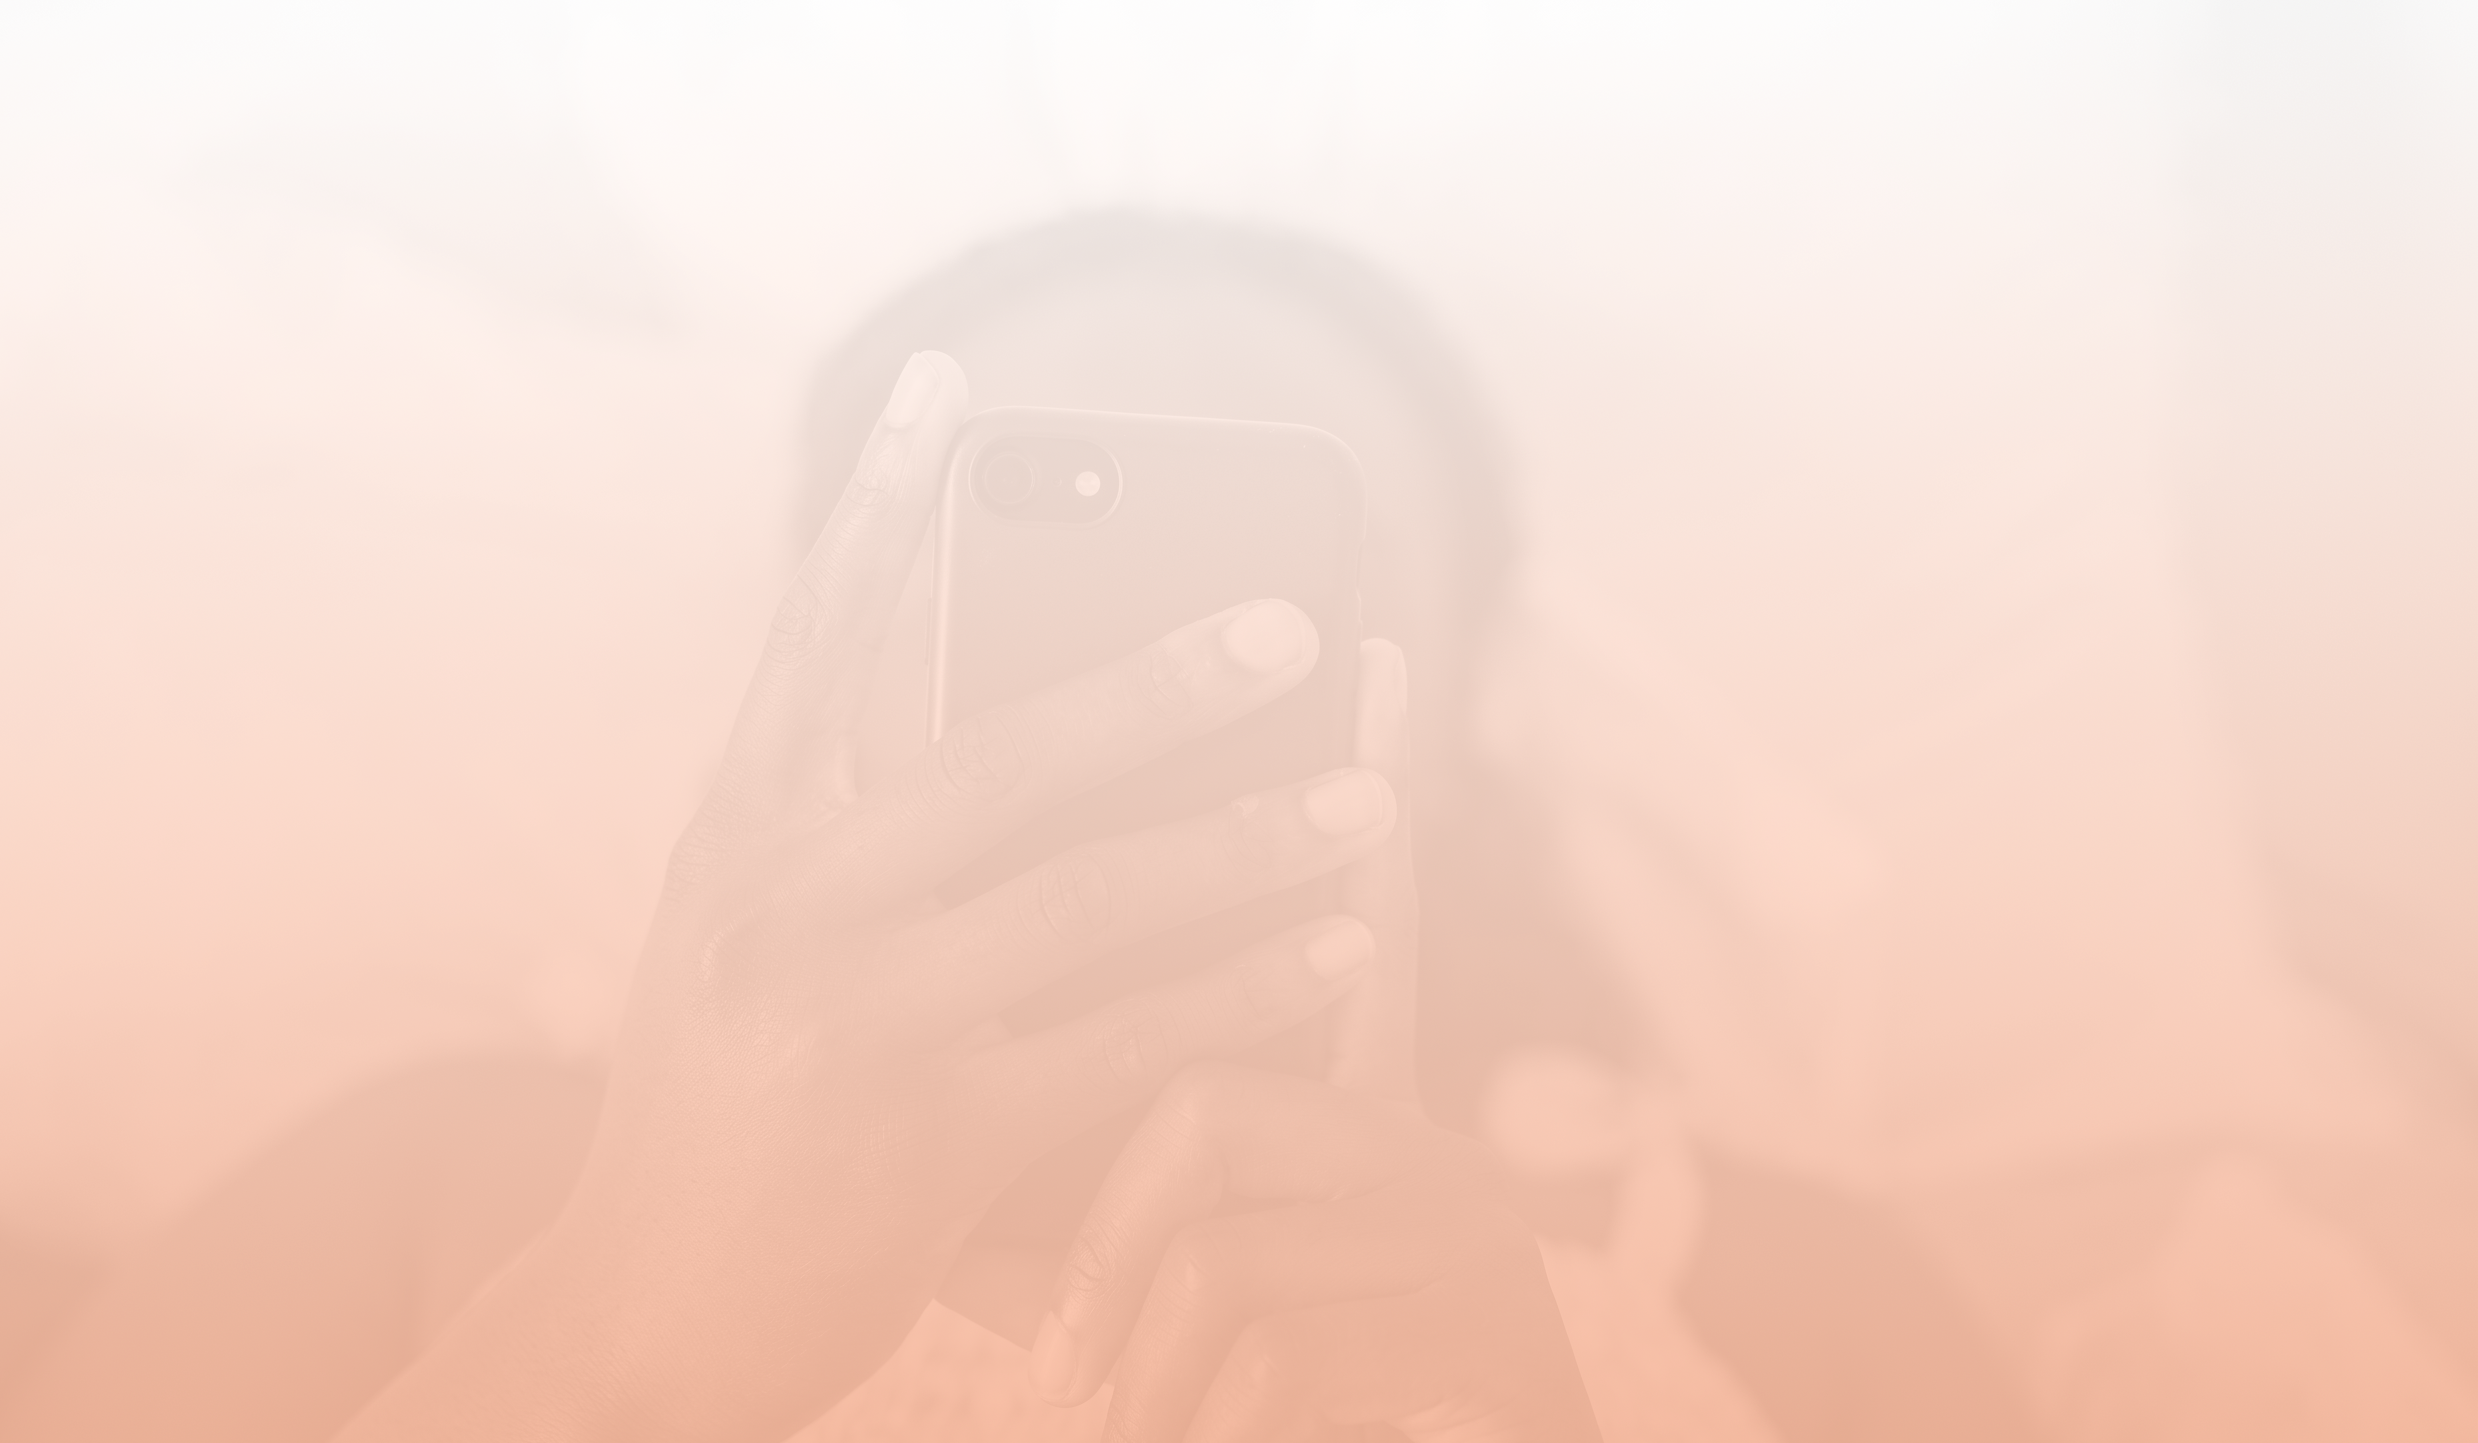
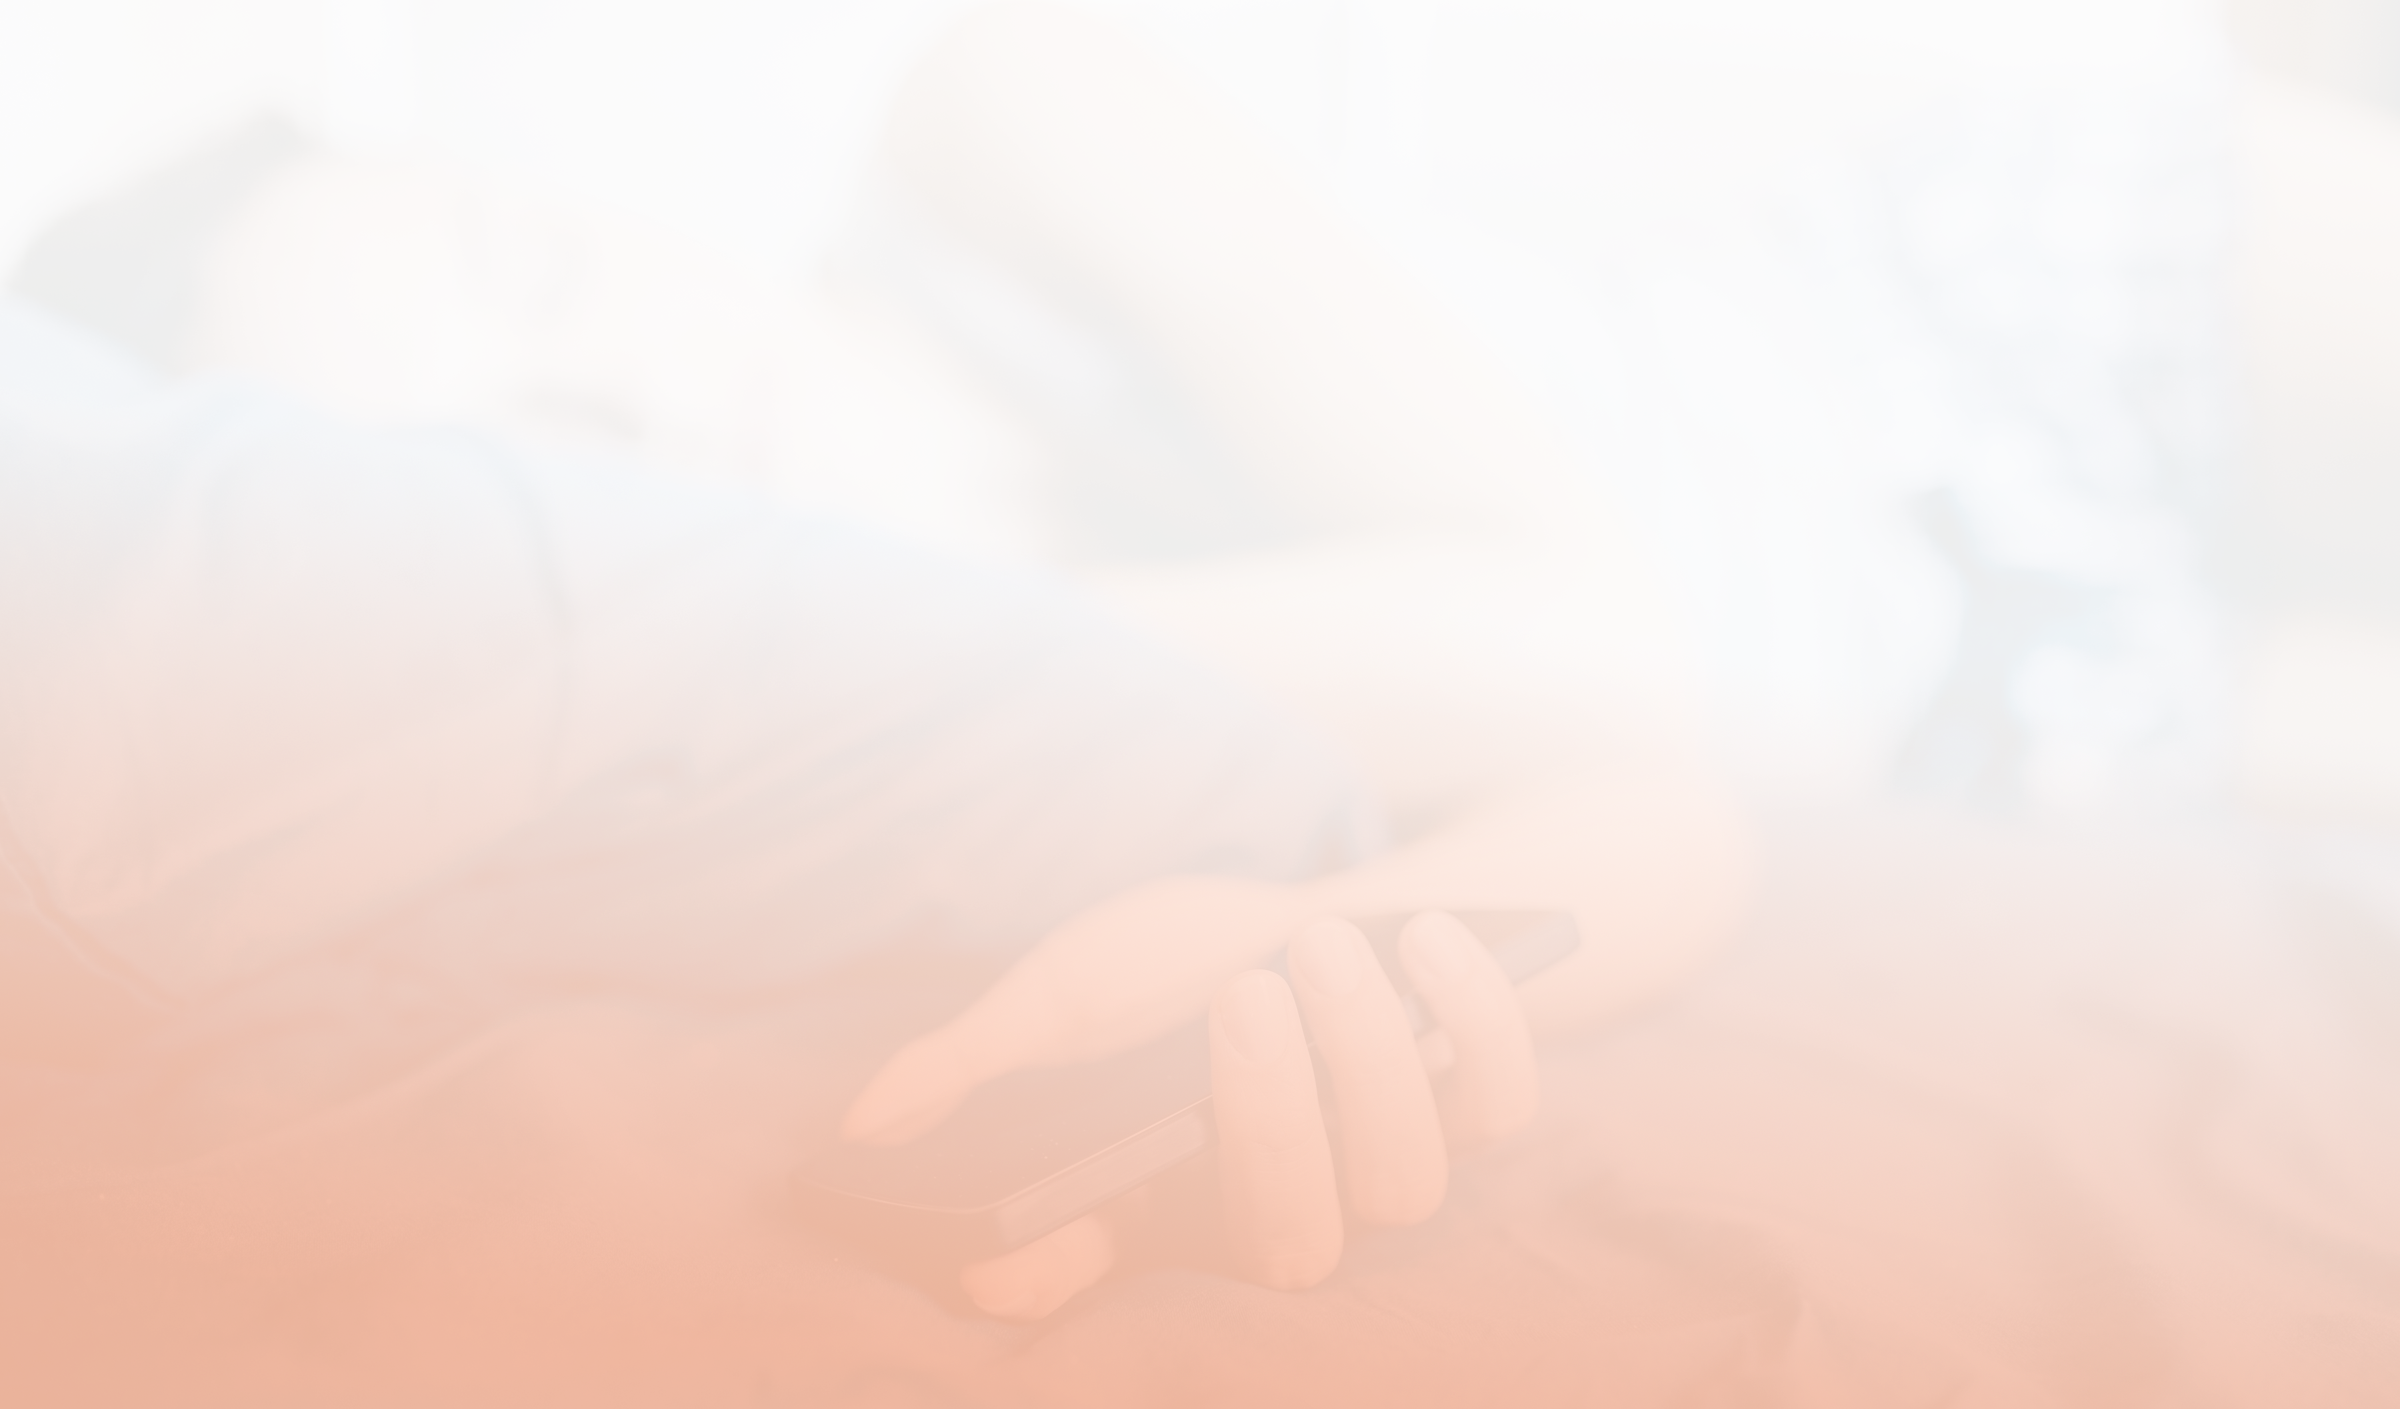
polish(emotional-appeal): swap photo, small dash, blue solution panel
- Swap emotional-bg.png to the hand-on-bed shot.
- Change em-dash (—) after "our screens" to a hyphen (-) so the joiner
  reads lighter.
- Recolor the "A new approach / Define your version of balance" panel
  from #1E1C1A to the CTA blue #6FA3F7.
- Bump mobile text margin from 100 to 120px so the lines sit a bit
  higher over the photo on phones.

diff --git a/components/emotional-appeal-section.tsx b/components/emotional-appeal-section.tsx
@@ -34,7 +34,7 @@ export function EmotionalAppealSection() {
         <div className="relative z-10 max-w-2xl mx-auto text-center mb-[120px] sm:mb-[75px]">
           {/* The Love */}
           <p className="font-serif text-xl md:text-2xl lg:text-3xl text-foreground/90 leading-relaxed mb-2">
-            There&apos;s a lot to love about our screens &mdash;
+            There&apos;s a lot to love about our screens -
           </p>
           <p className="text-base md:text-lg text-foreground/50 leading-relaxed mb-10 md:mb-14">
             the utility, the connection, the whole world in our hands.
@@ -51,7 +51,7 @@ export function EmotionalAppealSection() {
       </div>
 
       {/* Part 3: The Solution */}
-      <div className="px-6 py-20 md:py-28 bg-[#1E1C1A]">
+      <div className="px-6 py-20 md:py-28 bg-[#6FA3F7]">
         <div className="max-w-3xl mx-auto text-center">
           <p className="text-sm md:text-base font-sans uppercase tracking-[0.25em] text-white/40 mb-5">
             A new approach
